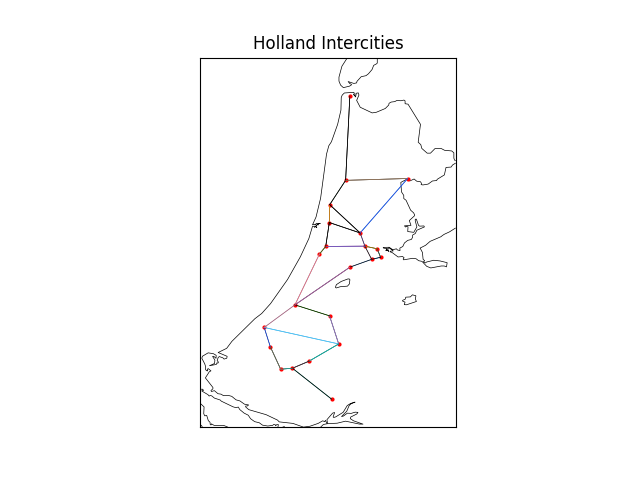
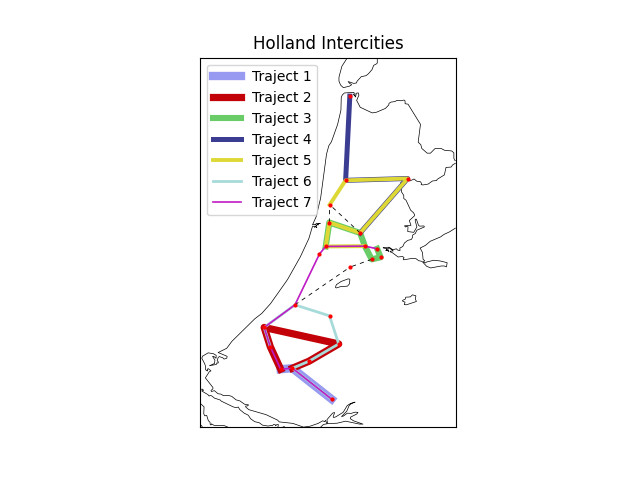
versie representatie

diff --git a/visualization.py b/visualization.py
@@ -1,19 +1,27 @@
-import random
 
+import copy
 import matplotlib.pyplot as plt
-import pandas as pd
 from mpl_toolkits.basemap import Basemap
 
 
-def visualization(map, stations, routes):
-    if map == "Nationaal":
+def visualization(the_map, graph):
+    if the_map == "Nationaal":
+        fonts = "xx-small"
+        col = ["#a8d5e2","#f9a620","#ffd449","#548c2f","#104911","#c84630","#00916e","#a4036f","#7a6c5d","#19297c",
+               "#172a3a","#8c93a8","#a9f8fb","#f0c808","#96e6b3","#f51aa4","#561d25","#ff3864","#ffdab9","#72b01d"]
+        linew = [2 for _ in range(20)]
+        
         m = Basemap(projection='mill',
             llcrnrlat= 50.7,
             llcrnrlon= 3.2,
             urcrnrlat= 53.6,
             urcrnrlon= 7.3,
             resolution='h')
-    elif map == "Holland":
+    else: 
+        fonts = "medium"
+        col = ["#979af0","#C20208","#69CC66","#3a3d91","#ded837","#a7dbda","#BF1BC4"]
+        linew = [6, 5.2, 4.4, 3.6, 2.8, 2, 1.2]
+
         m = Basemap(projection='mill',
             llcrnrlat= 51.7,
             llcrnrlon= 4,
@@ -24,41 +32,46 @@ def visualization(map, stations, routes):
     m.drawcoastlines(linewidth=0.5)
     m.drawcountries()
 
+    # Plotting routes on the map
+    routes = graph.routes.values()
+    traject = 1
+    for route in routes:
+        xs_r, ys_r = ([] for _ in range(2))
+        for i in range(len(route.stations)):
+            xs_r.append(route.stations[i]._x)
+            ys_r.append(route.stations[i]._y)
+        xline_r, yline_r = m(ys_r, xs_r)
+        m.plot(xline_r, yline_r, color=col[traject - 1], linewidth=linew[traject - 1], label=f"Traject {traject}")
+        traject += 1
+
+    # Plotting unused connections on the map
+    unused_connections = graph.get_unused_connections()
+    unused_connections = cleanup_connections(unused_connections)
+    for connection in unused_connections:
+        xs_uc = []
+        ys_uc = []
+        # for station in connection:
+        xs_uc.append(graph.stations[connection[0]]._x)
+        ys_uc.append(graph.stations[connection[0]]._y)
+        xs_uc.append(graph.stations[connection[1]]._x)
+        ys_uc.append(graph.stations[connection[1]]._y)
+        xline_uc, yline_uc = m(ys_uc, xs_uc)
+        m.plot(xline_uc, yline_uc, "k", linestyle="--", dashes=(5, 5), linewidth=0.6)
+        
+    # Plotting stations on the map
+    stations = list(graph.stations.keys())
     for station in stations:
-        # plotting stations on the map
-        lat_s, lon_s = stations[station]._x, stations[station]._y
+        lat_s, lon_s = graph.stations[station]._x, graph.stations[station]._y
         xpt_s, ypt_s = m(lon_s, lat_s)
         m.plot(xpt_s, ypt_s, "ro", markersize=2)
-        for connection in stations[station]._connections_loc:
-            # plotting connections on the map
-            r = random.random()
-            b = random.random()
-            g = random.random()
-            xline = []
-            yline = []
-            xline.append(xpt_s)
-            yline.append(ypt_s)
-            lat_c, lon_c = stations[station]._connections_loc[connection][0]
-            passed = stations[station]._connections_loc[connection][1]
-            if passed:
-                col = (r, g, b)
-                # plt.plot(x, y, c=color)
-                # col = "r"           
-            else:
-                col = "black"
 
-            xpt_c, ypt_c = m(lon_c, lat_c)
-            # print(f"{station}: {connection}")
-            # print()
-            xline.append(xpt_c)
-            yline.append(ypt_c)
-            m.plot(xline, yline, linewidth=0.5, color=col)
+    plt.title(f'{the_map} Intercities')
+    plt.legend(loc=2, fontsize = fonts)
+    plt.savefig(f'plots/test_{the_map}.png')
 
-    plt.title(f'{map} Intercities')
-    plt.savefig(f'plots/test_{map}.png')
-
-# ### hebben we nog nodig
-#     if i % 2 == 0:
-#         col = "ro"
-#     else:
-#         col = "go"
+def cleanup_connections(connections):
+    connections1 = copy.deepcopy(connections)
+    for connection in connections:
+        if (connection[1], connection[0]) in connections1:
+            connections1.pop(connections1.index(connection))
+    return connections1

diff --git a/code/classes/stations_graph.py b/code/classes/stations_graph.py
@@ -29,6 +29,7 @@ class StationsGraph():
         '''
         Loads all the connections into the stations.
         '''
+        connections_all = set()
         with open(input_file, 'r') as file:
             # Skip header line
             next(file)
@@ -37,13 +38,16 @@ class StationsGraph():
             for line in file:
                 x = line.strip().split(',')
 
-                # Add connection with time
+                # Add connections to Station class
                 self.stations[x[0]].add_connection(x[1], float(x[2]))
                 self.stations[x[1]].add_connection(x[0], float(x[2]))
 
-                # Add connection with coordinates
-                self.stations[x[0]].add_connection_loc(x[1], self.stations[x[1]]._x, self.stations[x[1]]._y)
-                self.stations[x[1]].add_connection_loc(x[0], self.stations[x[0]]._x, self.stations[x[0]]._y)
+                # Save a set of all connections
+                # NOTE: hier kunnen we nog tellen hoe vaak connectie gebruikt
+                connections_all.add((x[0], x[1]))
+                connections_all.add((x[1], x[0]))
+        
+        return connections_all
 
     def add_route(self, starting_station):
         '''
@@ -59,13 +63,16 @@ class StationsGraph():
         for route in self.routes:
             connections = connections.union(self.routes[route].connections)
 
-        duplicates = set()
+        connections_inversed = set()
         for connection in connections:
-            duplicates.add((connection[1], connection[0]))
+            connections_inversed.add((connection[1], connection[0]))
 
-        connections = connections.union(duplicates)
+        connections = connections.union(connections_inversed)
 
         return connections
+    
+    def get_unused_connections(self):
+        return list(self.connections - self.get_visited_connections())
 
     def calculate_score(self):
         '''
@@ -74,7 +81,7 @@ class StationsGraph():
         Min the total time of all routes (in minutes).
         '''
         # 56 for Holland, 178 for Nationaal - I think
-        p = len(self.get_visited_connections()) / 56
+        p = len(self.get_visited_connections()) / len(self.connections)
         t = len(self.routes)
         m = 0
         for route in self.routes:

diff --git a/main.py b/main.py
@@ -1,19 +1,23 @@
 import argparse
 from code.algorithms import randomize
 from code.classes.stations_graph import StationsGraph
+from visualization import visualization
 
 import pandas as pd
 
 
 def main(the_map, output_file):
+    TRIES = 1000000
+    print(f"Calculating best routes out of {TRIES} tries...")
+
     # Load data into the graph
     stations_graph = StationsGraph(f'data/Stations{the_map}.csv', f'data/Connecties{the_map}.csv')
 
     # Random solution
     best_graph = None
     best_score = 0
-    for _ in range(1):
-        random_graph = randomize.random_assignment(stations_graph)
+    for _ in range(TRIES):
+        random_graph = randomize.random_assignment(stations_graph, the_map)
         if random_graph.calculate_score() > best_score:
             best_graph = random_graph
             best_score = random_graph.calculate_score()
@@ -22,10 +26,13 @@ def main(the_map, output_file):
     # Save graph to .csv file
     generate_output(best_graph, output_file)
     print(f"See '{output_file}' for generated routes.")
+    print(f"loading visualization...")
+
+    visualization(the_map, best_graph)
 
 
 def generate_output(graph, output_file):
-    # Create empty dataframe with columns to store the info from the tracks.
+    # Create empty dataframe with columns to store the info from the tracks
     tracks_df = pd.DataFrame(columns=["train", "stations"])
 
     for i, route in enumerate(graph.routes.values()):
@@ -35,14 +42,7 @@ def generate_output(graph, output_file):
 
     # Save results to output .csv file
     tracks_df.to_csv(output_file, index=False)
-
-
-# TODO: BROKEN!!! Fix this according to new data structure
-def traject_visualization(route, stations):
-    from visualization import visualization
-    for i in range(len(route[:-1])):
-        stations[route[i]].set_connection_visited(route[i+1])
-
+    
 
 if __name__ == "__main__":
     # Set-up parsing command line arguments

diff --git a/code/algorithms/randomize.py b/code/algorithms/randomize.py
@@ -1,13 +1,20 @@
 import random
 
 
-def random_assignment(graph):
+def random_assignment(graph, the_map):
     '''
     Randomly assigns valid stations to routes.
     '''
     unavailable_options = set()
+    if the_map == "Nationaal":
+        MAX_LENGTH = 20
+        MAX_TIME = 180
+    else:
+        MAX_LENGTH = 7
+        MAX_TIME = 120
+
     # Keep adding routes until max amount is reached or all stations are connected
-    while not len(graph.routes) >= 7:
+    while not len(graph.routes) >= MAX_LENGTH and len(graph.get_visited_connections()) < len(graph.connections):
         # First element can pick any station
         starting_station = random.choice(list(graph.stations))
 
@@ -16,7 +23,7 @@ def random_assignment(graph):
 
         # Keep adding stations to route until time exceeds limit
         route = graph.routes[starting_station]
-        while route.time < 120:
+        while route.time < MAX_TIME:
             # Stop algorithm from visiting the same station twice in one route
             # NOTE: Can be changed to not allowing duplicate connections at all or only allowing revisiting after n steps, for example.
             for station in route.stations:
@@ -35,7 +42,7 @@ def random_assignment(graph):
             unavailable_options = set()
 
         # Remove route if it is not valid
-        if not route.is_valid():
+        if not route.is_valid(the_map):
             graph.routes.pop(starting_station)
 
     return graph

diff --git a/code/classes/station.py b/code/classes/station.py
@@ -4,27 +4,14 @@ class Station():
         self._name = name
         self._x = x
         self._y = y
-        self._passed = False
+
         self._connections = {}
-        self._connections_loc = {}
 
     def add_connection(self, direction, distance):
         '''
         Adds a connection to the station.
         '''
         self._connections[direction] = distance
-
-    def add_connection_loc(self, direction, x, y):
-        '''
-        Adds the coordinates of the end point of the connection the the station and defaults visited to False.
-        '''
-        self._connections_loc[direction] = [(x, y), False]
-
-    def set_connection_visited(self, direction):
-        '''
-        Marks the connection as visited if there is a connection present.
-        '''
-        self._connections_loc[direction][1] = True
 
     def get_possible_connections(self):
         '''

diff --git a/code/classes/route.py b/code/classes/route.py
@@ -4,11 +4,17 @@ class Route():
         self.time = 0
         self.connections = set()
 
-    def is_valid(self):
+    def is_valid(self, the_map):
         '''
         Returns True if the route is valid according to the given restrictions.
         False otherwise.
         '''
+        
+        if the_map == "Nationaal":
+            time_max = 180
+        else:
+            time_max = 120
+        
         # Route should have at least made one connection
         if len(self.stations) < 2:
             return False
@@ -19,7 +25,7 @@ class Route():
                 return False
 
         # Total time should not be greater than limit
-        if self.time > 120:
+        if self.time > time_max:
             return False
 
         return True
